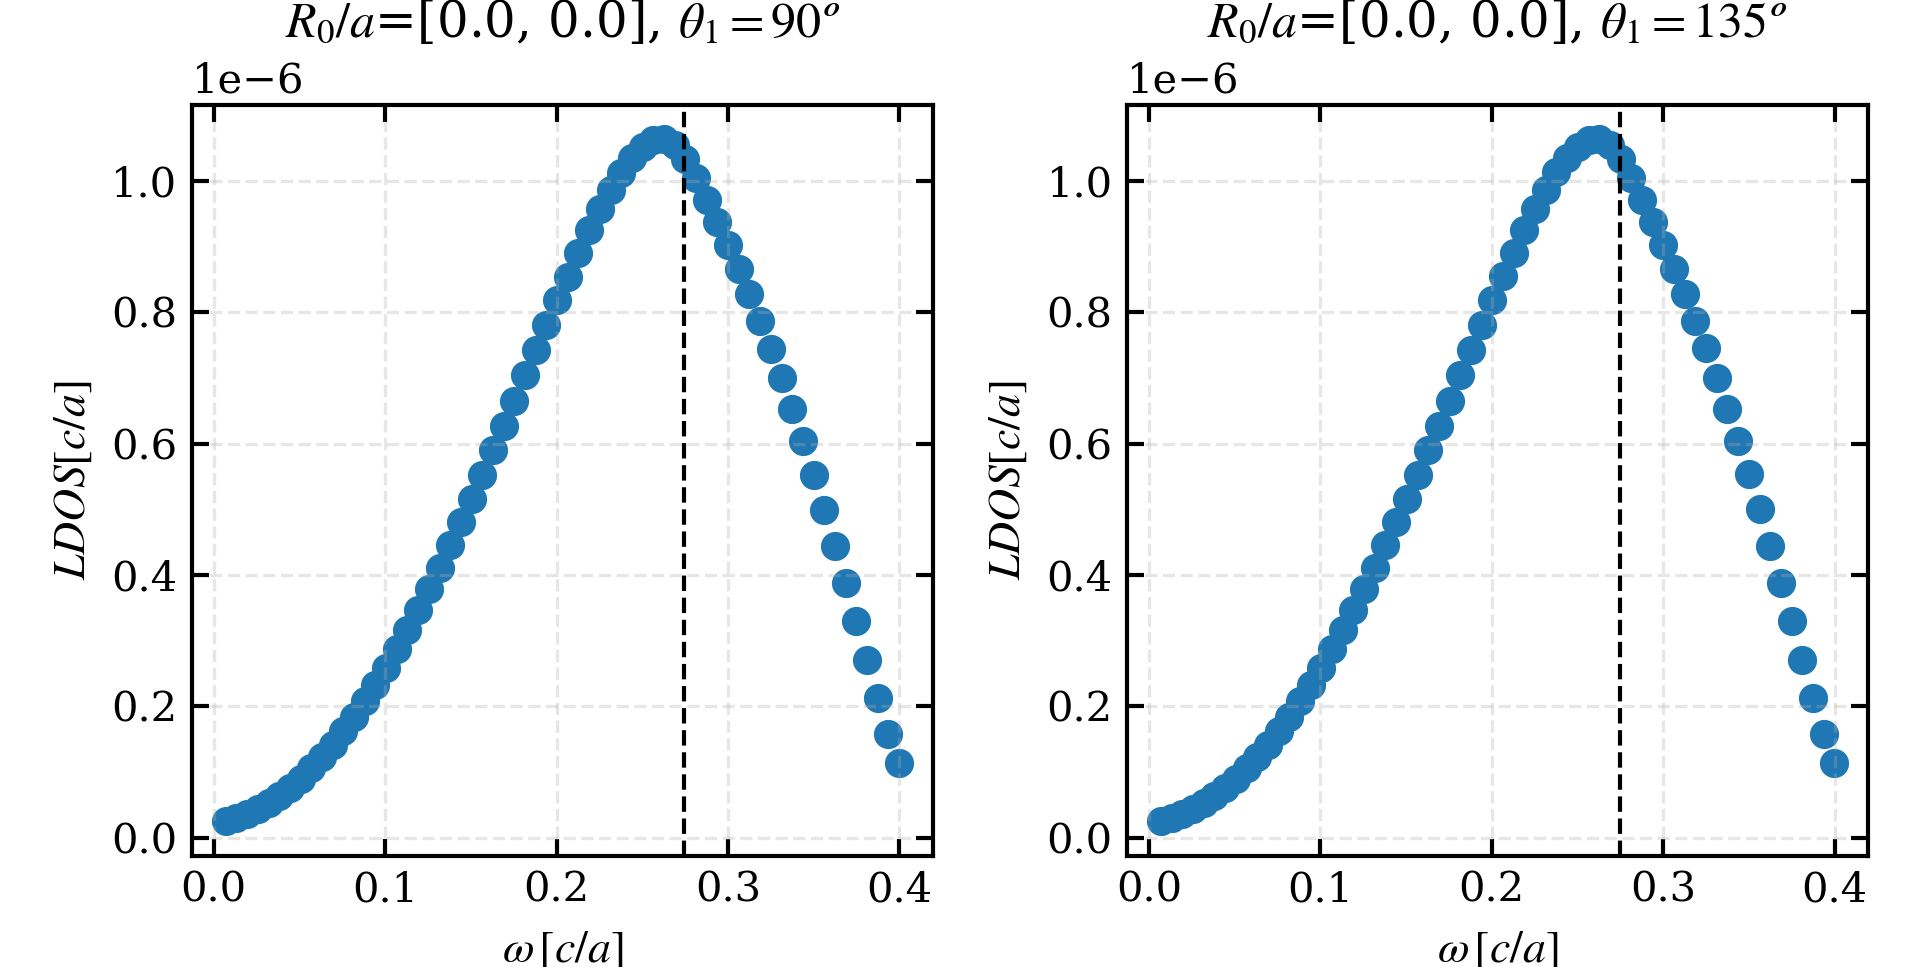
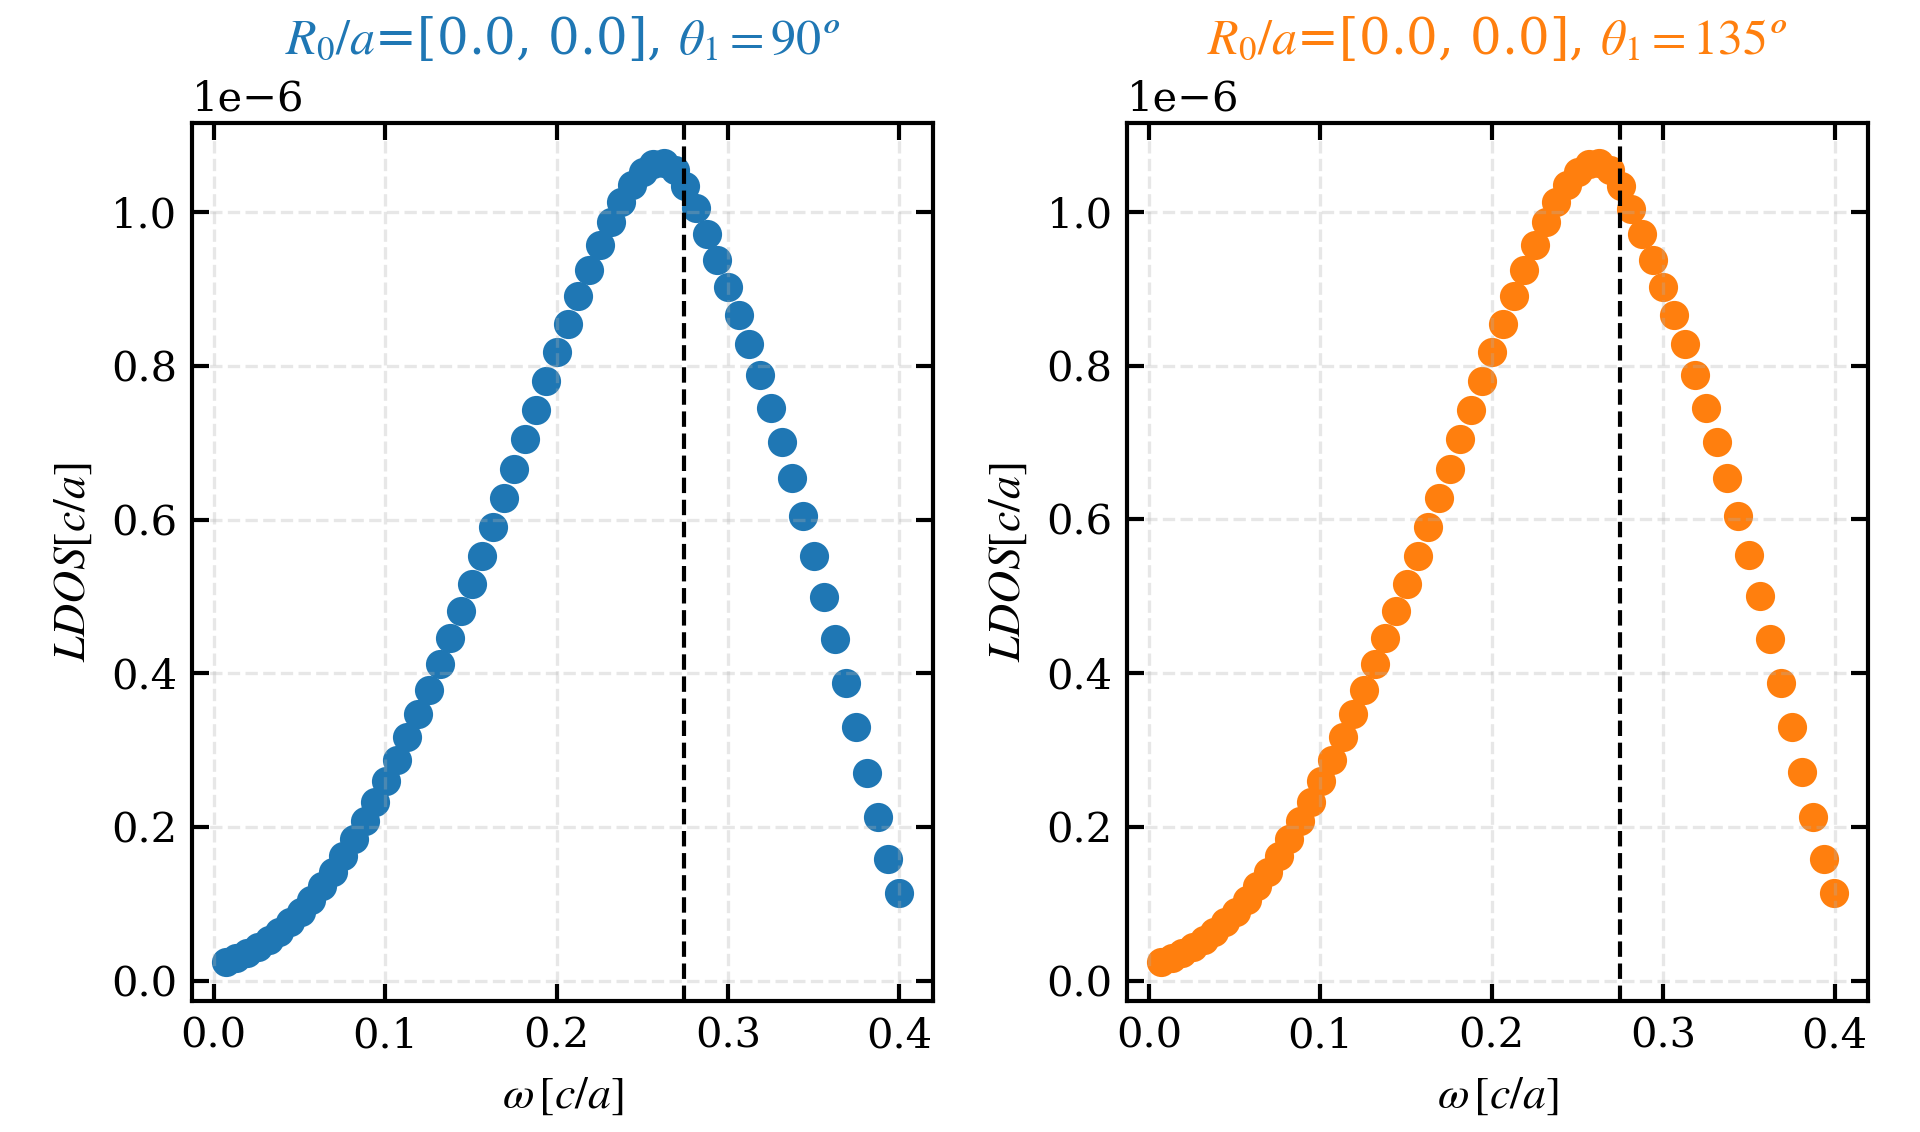
final tweaks to `kimble.py`

diff --git a/kimble.py b/kimble.py
@@ -64,7 +64,6 @@ mpl.rcParams.update(
         "legend.fontsize": 10,
         "legend.frameon": False,
         # Save
-        "savefig.transparent": True,
     }
 )
 
@@ -237,7 +236,7 @@ panel_labels = ["(a)", "(b)", "(c)", "(d)"]
 
 # Some parameters to plot an schematic emitter
 dip_colors = ["#1f77b4", "#ff7f0e"]  # [dipole 1, dipole 2]
-arrow_length = 0.4
+arrow_length = 0.6
 
 # --- First quadrant: dielectric structure (a)
 ax = axs[0, 0]
@@ -250,7 +249,15 @@ ax.set(
 
 ax.text(-0.2, 1.1, panel_labels[0], transform=ax.transAxes)  # add the panel label
 for i, theta in enumerate(thetas):
-    mf.draw_arrow(ax, R0, theta, dip_colors[i], rf"$\theta_{i+1}$", length=arrow_length)
+    mf.draw_arrow(
+        ax,
+        R0,
+        theta,
+        dip_colors[i],
+        rf"$\theta_{i+1}$",
+        length=arrow_length,
+        offset=0.2,
+    )
 
 # --- Second quadrant: TE bands (b)
 ax = axs[0, 1]
@@ -329,7 +336,7 @@ fig, axs = plt.subplots(1, 2)
 for i, ldos in enumerate(ldos_list):
     ax = axs[i]
 
-    ax.scatter(omega_eval, ldos)
+    ax.scatter(omega_eval, ldos, c=dip_colors[i])
     ax.axvline(
         x=detuning_freq,
         color="k",
@@ -343,7 +350,7 @@ for i, ldos in enumerate(ldos_list):
         ylabel=r"$LDOS [c/a]$",
         title=rf"$R_0/a$={R0}, $\theta_1={np.degrees(thetas[i]):.0f}º$",
     )
-    ax.grid(True)
+    ax.title.set_color(dip_colors[i])
 
 fig.tight_layout()
 plt.show()
@@ -501,6 +508,7 @@ z2 = mod_Cr_squared_2.reshape(len(x), len(y))
 
 fig, axs = plt.subplots(2, 2)
 panel_labels = ["(a)", "(b)", "(c)", "(d)"]
+arrow_length = 15
 
 # --- First quadrant (a)
 ax = axs[0, 0]
@@ -529,7 +537,7 @@ ax1 = axs[0, 1]
     mod_Ce_squared_1,
     lw=3,
     color=dip_colors[0],
-    label=r"$|C_e(t)|^2, \theta=90º$",
+    label=r"$|C_e(t)|^2, \theta_1 = 90º$",
 )
 (l2,) = ax1.plot(
     tvals,
@@ -537,7 +545,7 @@ ax1 = axs[0, 1]
     lw=2,
     color=dip_colors[1],
     alpha=0.9,
-    label=r"$|C_e(t)|^2, \theta=135º$",
+    label=r"$|C_e(t)|^2, \theta_2 = 135º$",
 )
 
 ax1.set(
@@ -554,7 +562,7 @@ ax2 = ax1.twinx()
     ls="--",
     color=dip_colors[0],
     lw=3,
-    label=r"$S(t), \theta=90º$",
+    label=r"$S(t), \theta_1 = 90º$",
 )
 (l4,) = ax2.plot(
     tvals,
@@ -563,7 +571,7 @@ ax2 = ax1.twinx()
     color=dip_colors[1],
     alpha=0.9,
     lw=2.0,
-    label=r"$S(t), \theta=135º$",
+    label=r"$S(t), \theta_2 = 135º$",
 )
 ax2.set(ylabel=r"$S(t)$")
 
@@ -589,13 +597,15 @@ for i, (theta, z) in enumerate(zip(thetas, [z1, z2])):
         vmax=cbar_max,
     )
 
+    mf.draw_arrow(ax, R0, theta, color=dip_colors[i], length=arrow_length)
+
     cbar = fig.colorbar(sc, ax=ax, label=r"$|C_\mathbf{r}(t)|^2$")
     cbar.formatter.set_powerlimits((0, 0))
 
     ax.set(
         xlabel=r"$x/a$",
         ylabel=r"$y/a$",
-        title=rf"$\theta = {np.rad2deg(theta):.0f}º$",
+        title=rf"$\theta_{i+1} = {np.rad2deg(theta):.0f}º$",
         aspect="equal",
     )
     ax.title.set_color(dip_colors[i])
@@ -712,6 +722,8 @@ panel_labels = ["(a)", "(b)", "(c)", "(d)"]
 cbar_max = max(z1.max(), z2.max())
 concurrence_max = max(concurrences[0].max(), concurrences[1].max())
 arrow_length = 3
+new_dip_color = "#2ca02c"
+my_red = "#d62728"
 
 # --- First and Third quadrant (a,c)
 for i, (theta, z) in enumerate(zip(thetas, [z1, z2])):
@@ -725,7 +737,7 @@ for i, (theta, z) in enumerate(zip(thetas, [z1, z2])):
         vmax=cbar_max,
     )
 
-    mf.draw_arrow(ax, new_R, new_theta, length=arrow_length)
+    mf.draw_arrow(ax, new_R, new_theta, new_dip_color, length=arrow_length)
     mf.draw_arrow(ax, R0, theta, dip_colors[i], length=arrow_length)
 
     cbar = fig.colorbar(sc, ax=ax, label=r"$|C_\mathbf{r}(t)|^2$")
@@ -734,7 +746,7 @@ for i, (theta, z) in enumerate(zip(thetas, [z1, z2])):
     ax.set(
         xlabel=r"$x/a$",
         ylabel=r"$y/a$",
-        title=rf"$\theta = {np.rad2deg(theta):.0f}º$",
+        title=rf"$\theta_{i+1} = {np.rad2deg(theta):.0f}º$",
         aspect="equal",
         xlim=(-7, 7),
         ylim=(-7, 7),
@@ -746,22 +758,22 @@ for i, (theta, z) in enumerate(zip(thetas, [z1, z2])):
 for i, theta in enumerate(thetas):
     ax = axs[i, 1]
 
-    ax.plot(new_tvals, new_mod_Ces[i], c="k")
-    ax.plot(new_tvals, new_mod_Ce_probes[i], c="k", ls="--")
+    ax.plot(new_tvals, new_mod_Ces[i], c=dip_colors[i])
+    ax.plot(new_tvals, new_mod_Ce_probes[i], c=new_dip_color)
 
     ax2 = ax.twinx()
-    ax2.plot(new_tvals, concurrences[i], c="r")
+    ax2.plot(new_tvals, concurrences[i], c=my_red, ls="--")
 
     ax.set(
-        title=rf"$\theta = {np.rad2deg(theta):.0f}º$",
+        title=rf"$\theta_p = {np.rad2deg(new_theta):.0f}º$",
         xlabel=r"$t [\tau_1^{-1/2}]$",
         ylabel=r"$|C_e(t)|^2$",
         yscale="log",
     )
-    ax.title.set_color(dip_colors[i])
-    ax2.set_ylabel(r"$C(t)$", color="r")
-    ax2.tick_params(axis="y", colors="r")
-    ax2.spines["right"].set_color("r")
+    ax.title.set_color(new_dip_color)
+    ax2.set_ylabel(r"$C(t)$", color=my_red)
+    ax2.tick_params(axis="y", colors=my_red)
+    ax2.spines["right"].set_color(my_red)
     ax2.set_ylim((-1e-5, concurrence_max + 1e-5))
     ax2.ticklabel_format(style="sci", axis="y", scilimits=(0, 0))
 
